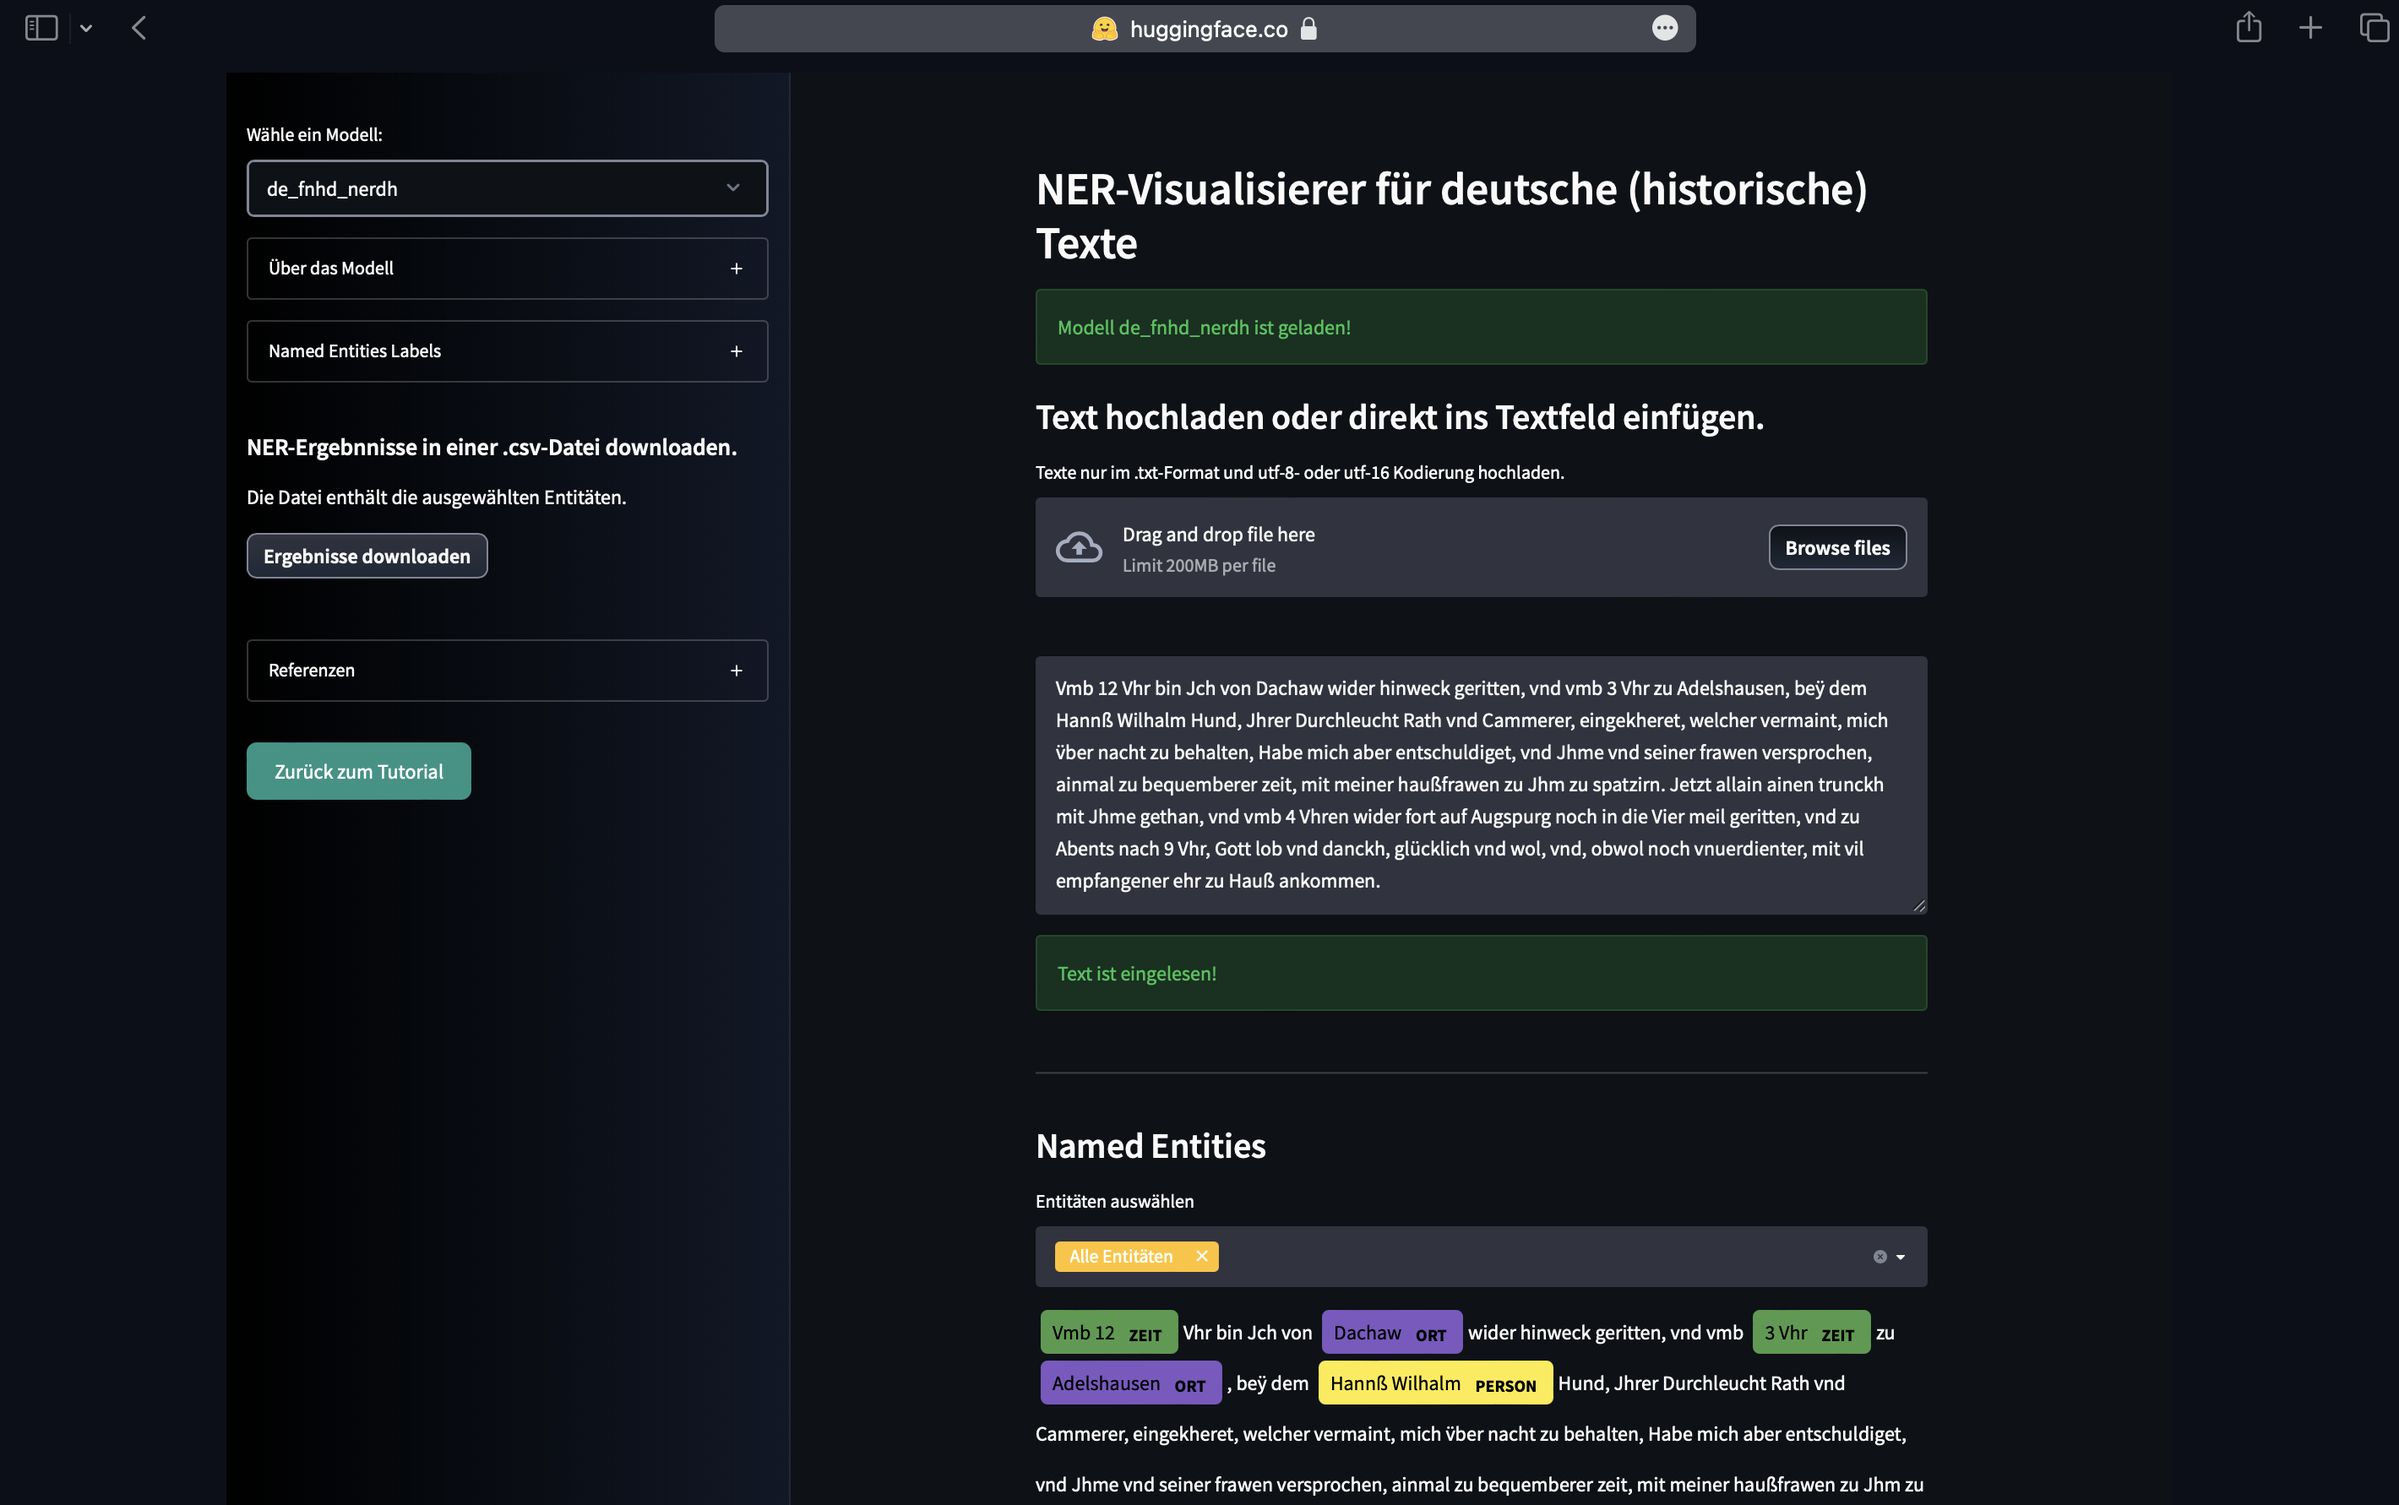
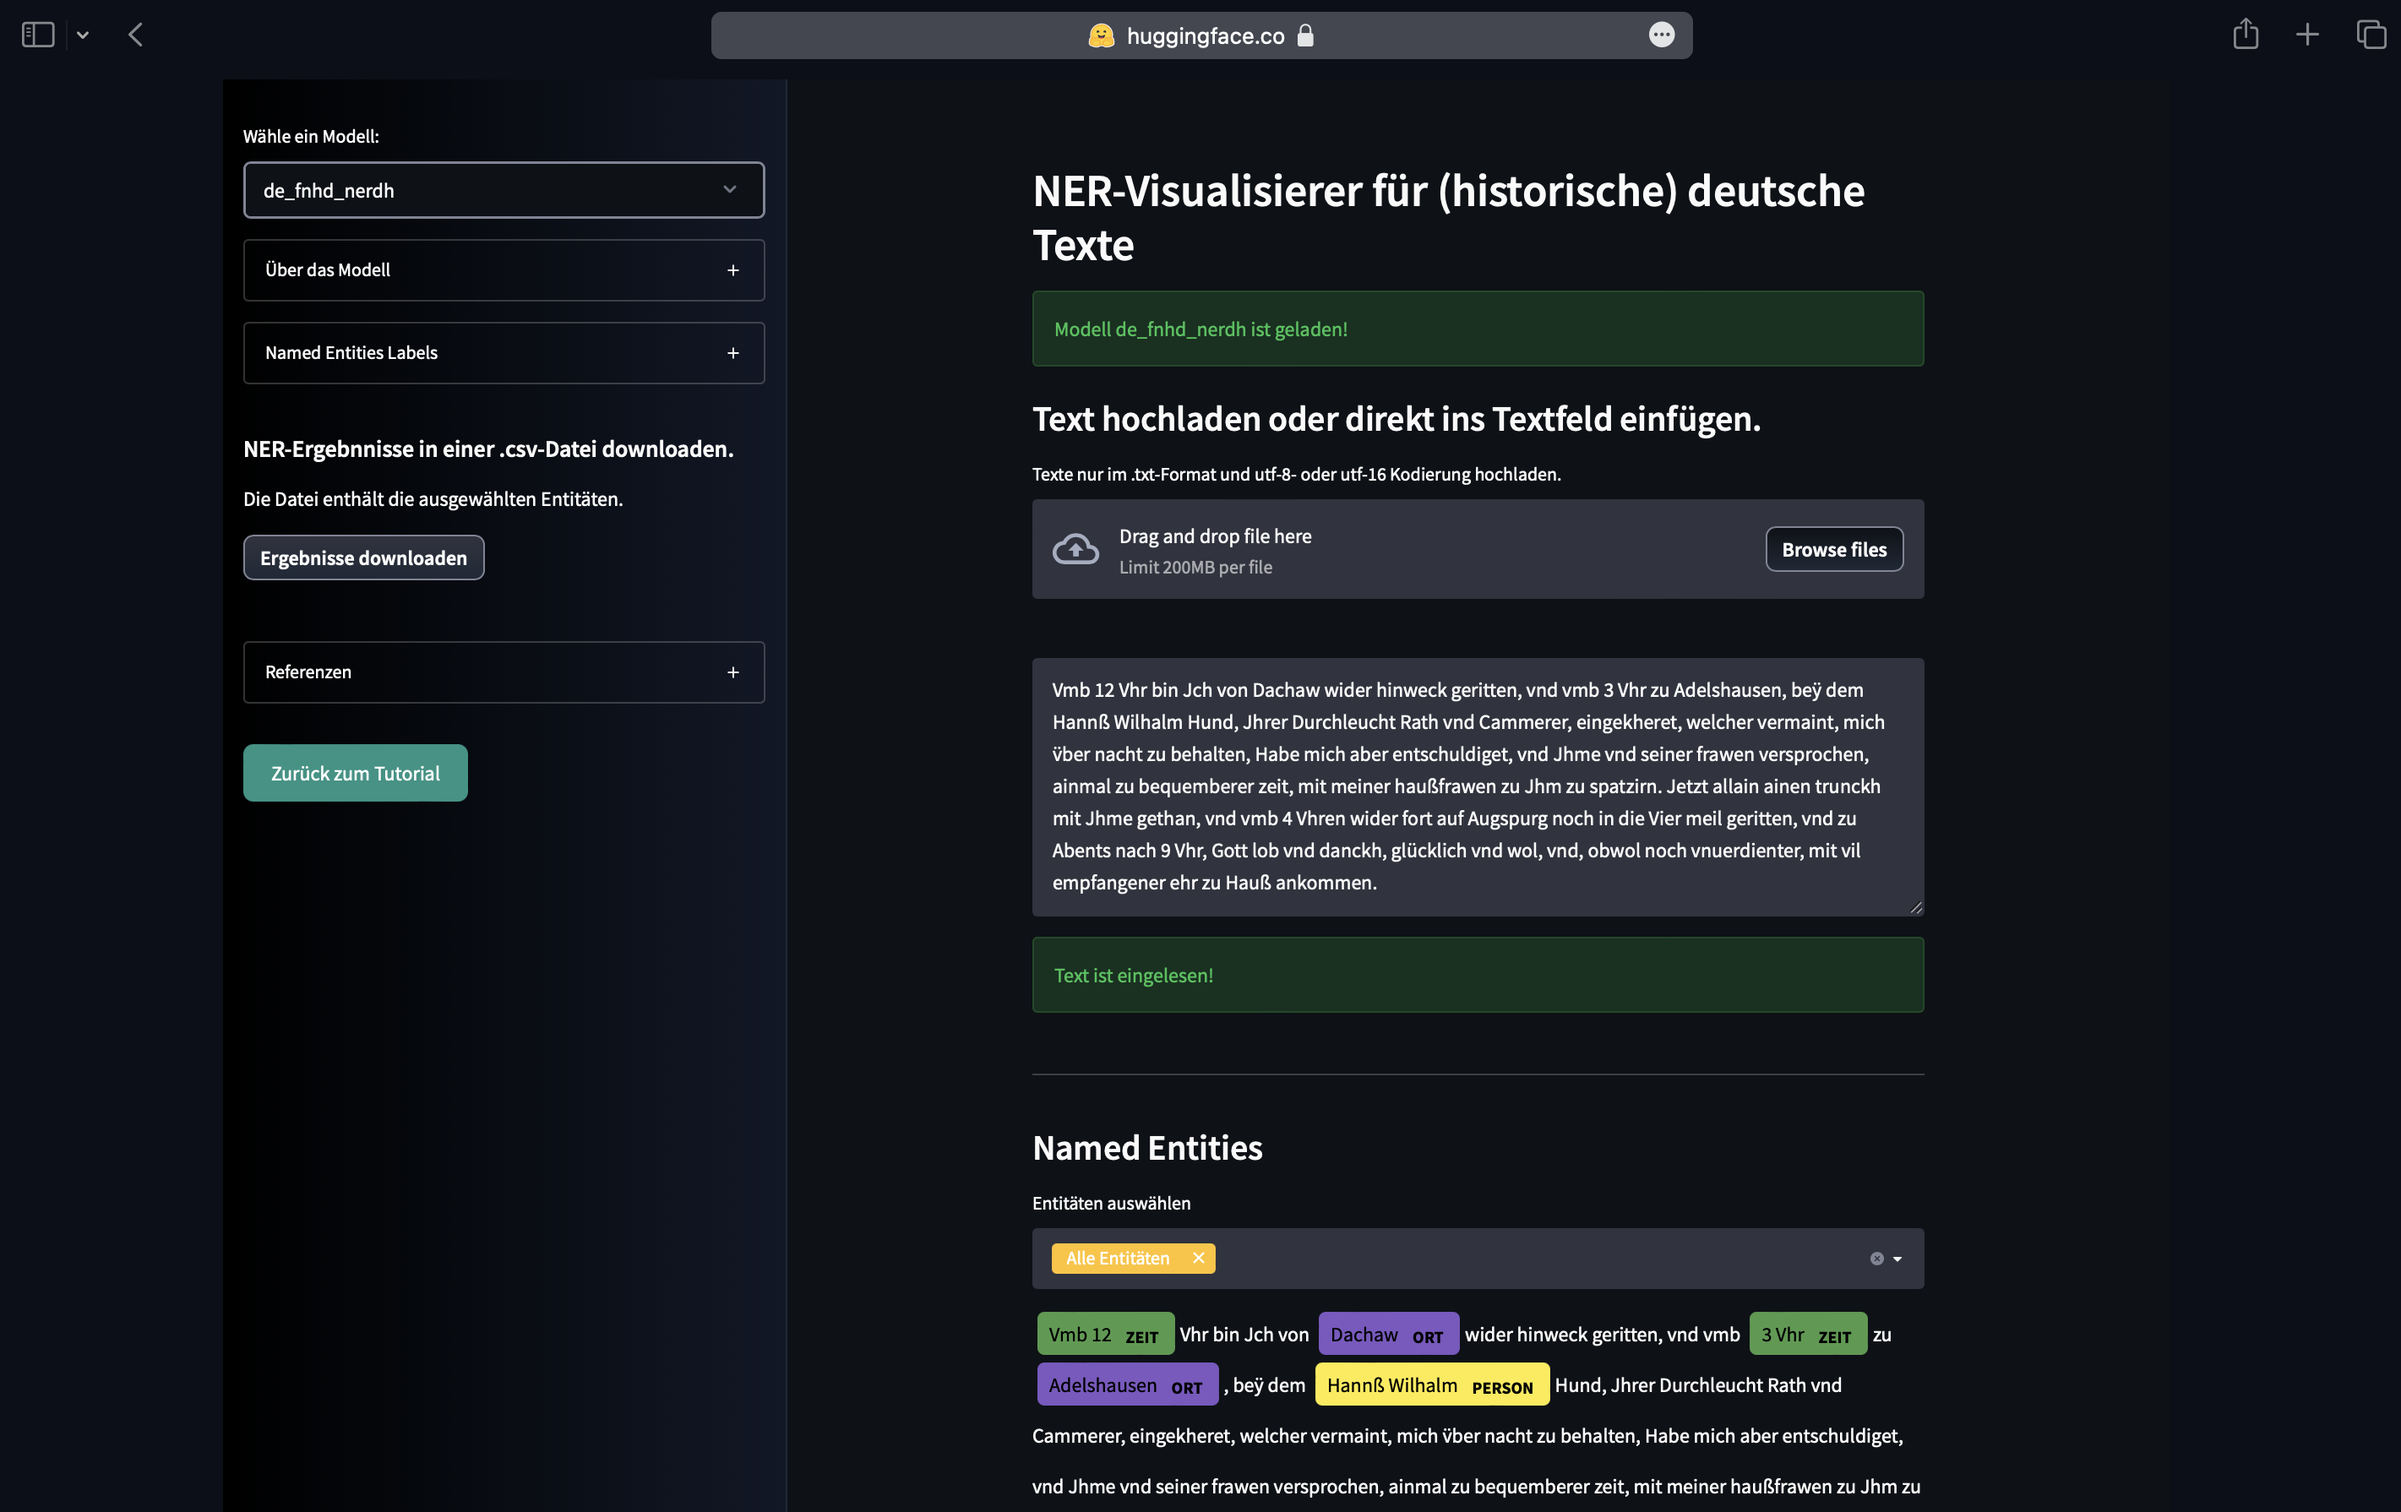
visualisierer

diff --git a/nerdh_visualisierer/app.py b/nerdh_visualisierer/app.py
@@ -28,7 +28,7 @@ st.markdown(""" <style>
         #MainMenu {visibility: hidden;} 
         footer {visibility: hidden;} 
         </style> """, unsafe_allow_html=True)
-st.markdown('## NER-Visualisierer für deutsche (historische) Texte')
+st.markdown('## NER-Visualisierer für (historische) deutsche Texte')
 
 #------------------------------------------------------------------------------
 #------------------------------------------------------------------------------
